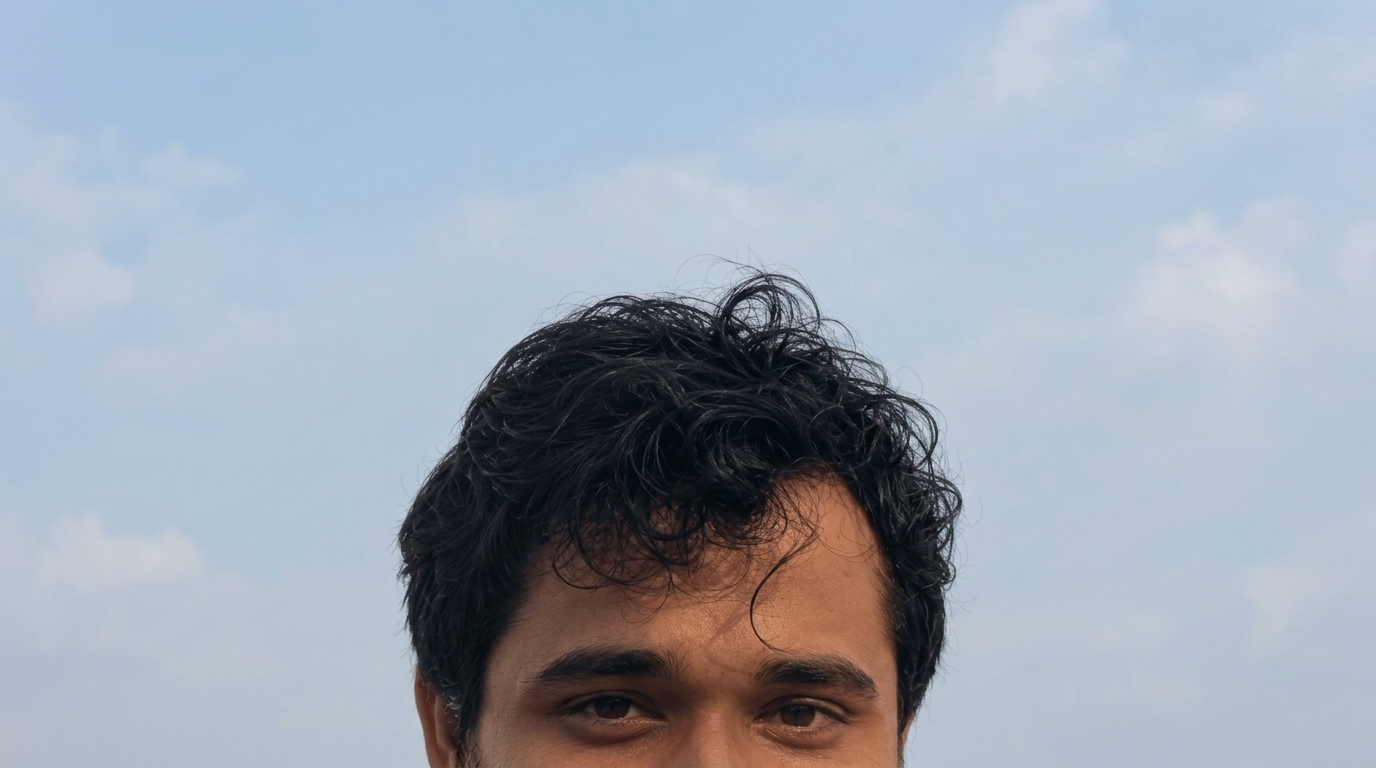
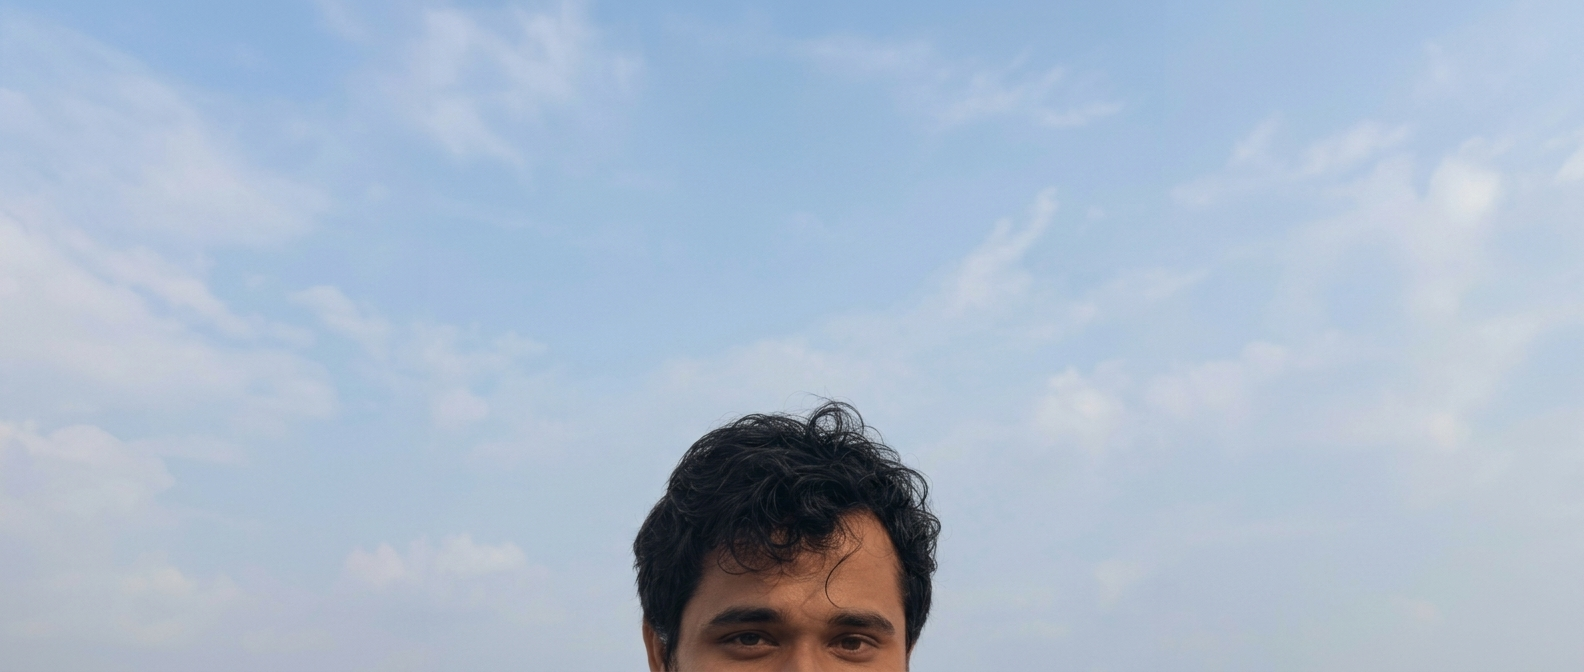
Use bg-contain for hero image instead of bg-cover

diff --git a/layouts/index.html b/layouts/index.html
@@ -383,7 +383,7 @@
 
         <!-- Hero Section -->
         <section
-            class="h-[66.667vh] bg-cover bg-bottom bg-no-repeat relative overflow-hidden"
+            class="h-[66.667vh] bg-contain bg-bottom bg-no-repeat relative overflow-hidden"
             style="
                 background-image: url(&quot;/assets/hero_section_image.jpeg&quot;);
                 background-color: #000000;
